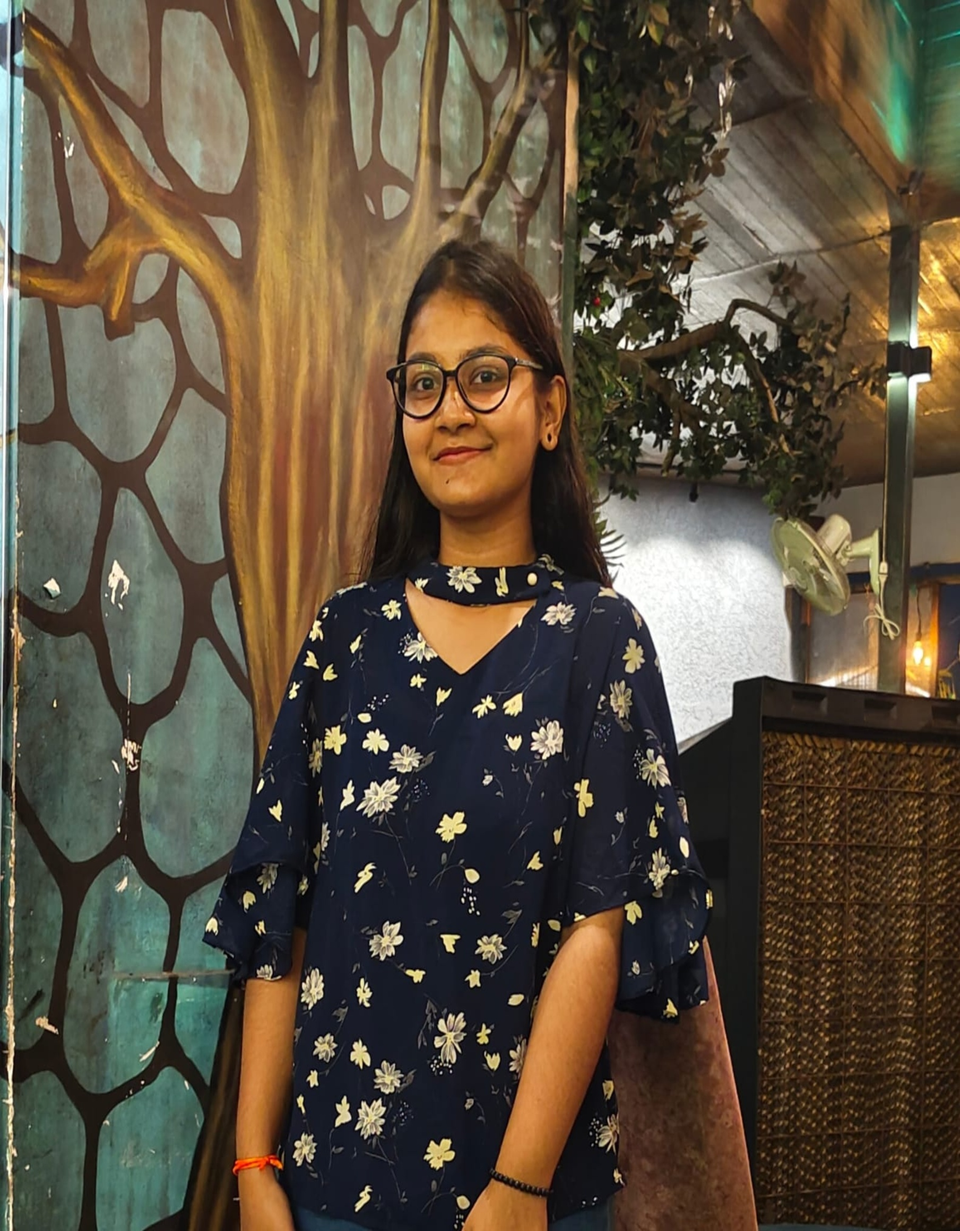
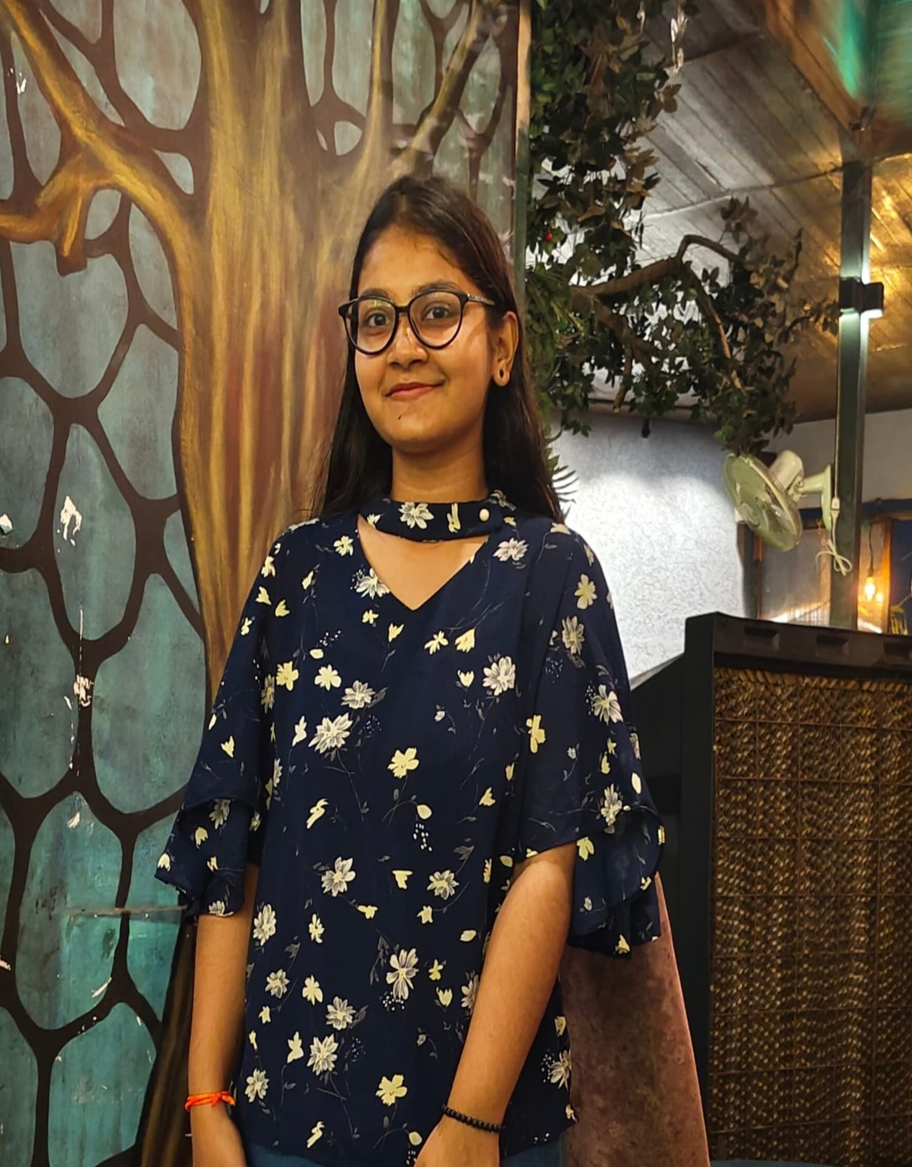
ImageFixations in Team page

diff --git a/team.html b/team.html
@@ -771,8 +771,8 @@
                     <div class="speaker-block col-lg-3 col-md-6 col-sm-12 wow fadeInUp" data-wow-delay="900ms">
                         <div class="inner-box">
                             <div class=" image-box">
-                                <figure class="image image-2">
-                                    <span><img src="images/team_prefinal2025/arunima.jpeg" alt=""></span>
+                                <figure class="image">
+                                    <span><img src="images/team_prefinal2025/arunima.jpg" alt="" ></span>
                                 </figure>
                             </div>
                             <div class="info-box">
@@ -786,7 +786,7 @@
                     <div class="speaker-block col-lg-3 col-md-6 col-sm-12 wow fadeInUp" data-wow-delay="900ms">
                         <div class="inner-box">
                             <div class=" image-box">
-                                <figure class="image image-2">
+                                <figure class="image">
                                     <span><img src="images/team_prefinal2025/rahul.jpeg" alt=""></span>
                                 </figure>
                             </div>
@@ -799,7 +799,7 @@
                     <div class="speaker-block col-lg-3 col-md-6 col-sm-12 wow fadeInUp" data-wow-delay="900ms">
                         <div class="inner-box">
                             <div class=" image-box">
-                                <figure class="image image-2">
+                                <figure class="image">
                                     <span><img src="images/team_prefinal2025/prerna.jpeg" alt=""></span>
                                 </figure>
                             </div>
@@ -952,7 +952,7 @@
                     <div class="speaker-block col-lg-3 col-md-6 col-sm-12 wow fadeInUp" data-wow-delay="900ms">
                         <div class="inner-box">
                             <div class=" image-box">
-                                <figure class="image image-2">
+                                <figure class="image">
                                     <span><img src="images/team_prefinal2025/akshita.jpeg" alt=""></span>
                                 </figure>
                             </div>
@@ -1062,7 +1062,7 @@
                         <div class="inner-box">
                             <div class=" image-box">
                                 <figure class="image image-2">
-                                    <span><img src="images/team_prefinal2025/suryansh.jpeg" alt=""></span>
+                                    <span><img src="images/team_prefinal2025/Suryansh.jpg" alt=""></span>
                                 </figure>
                             </div>
                             <div class="info-box">
